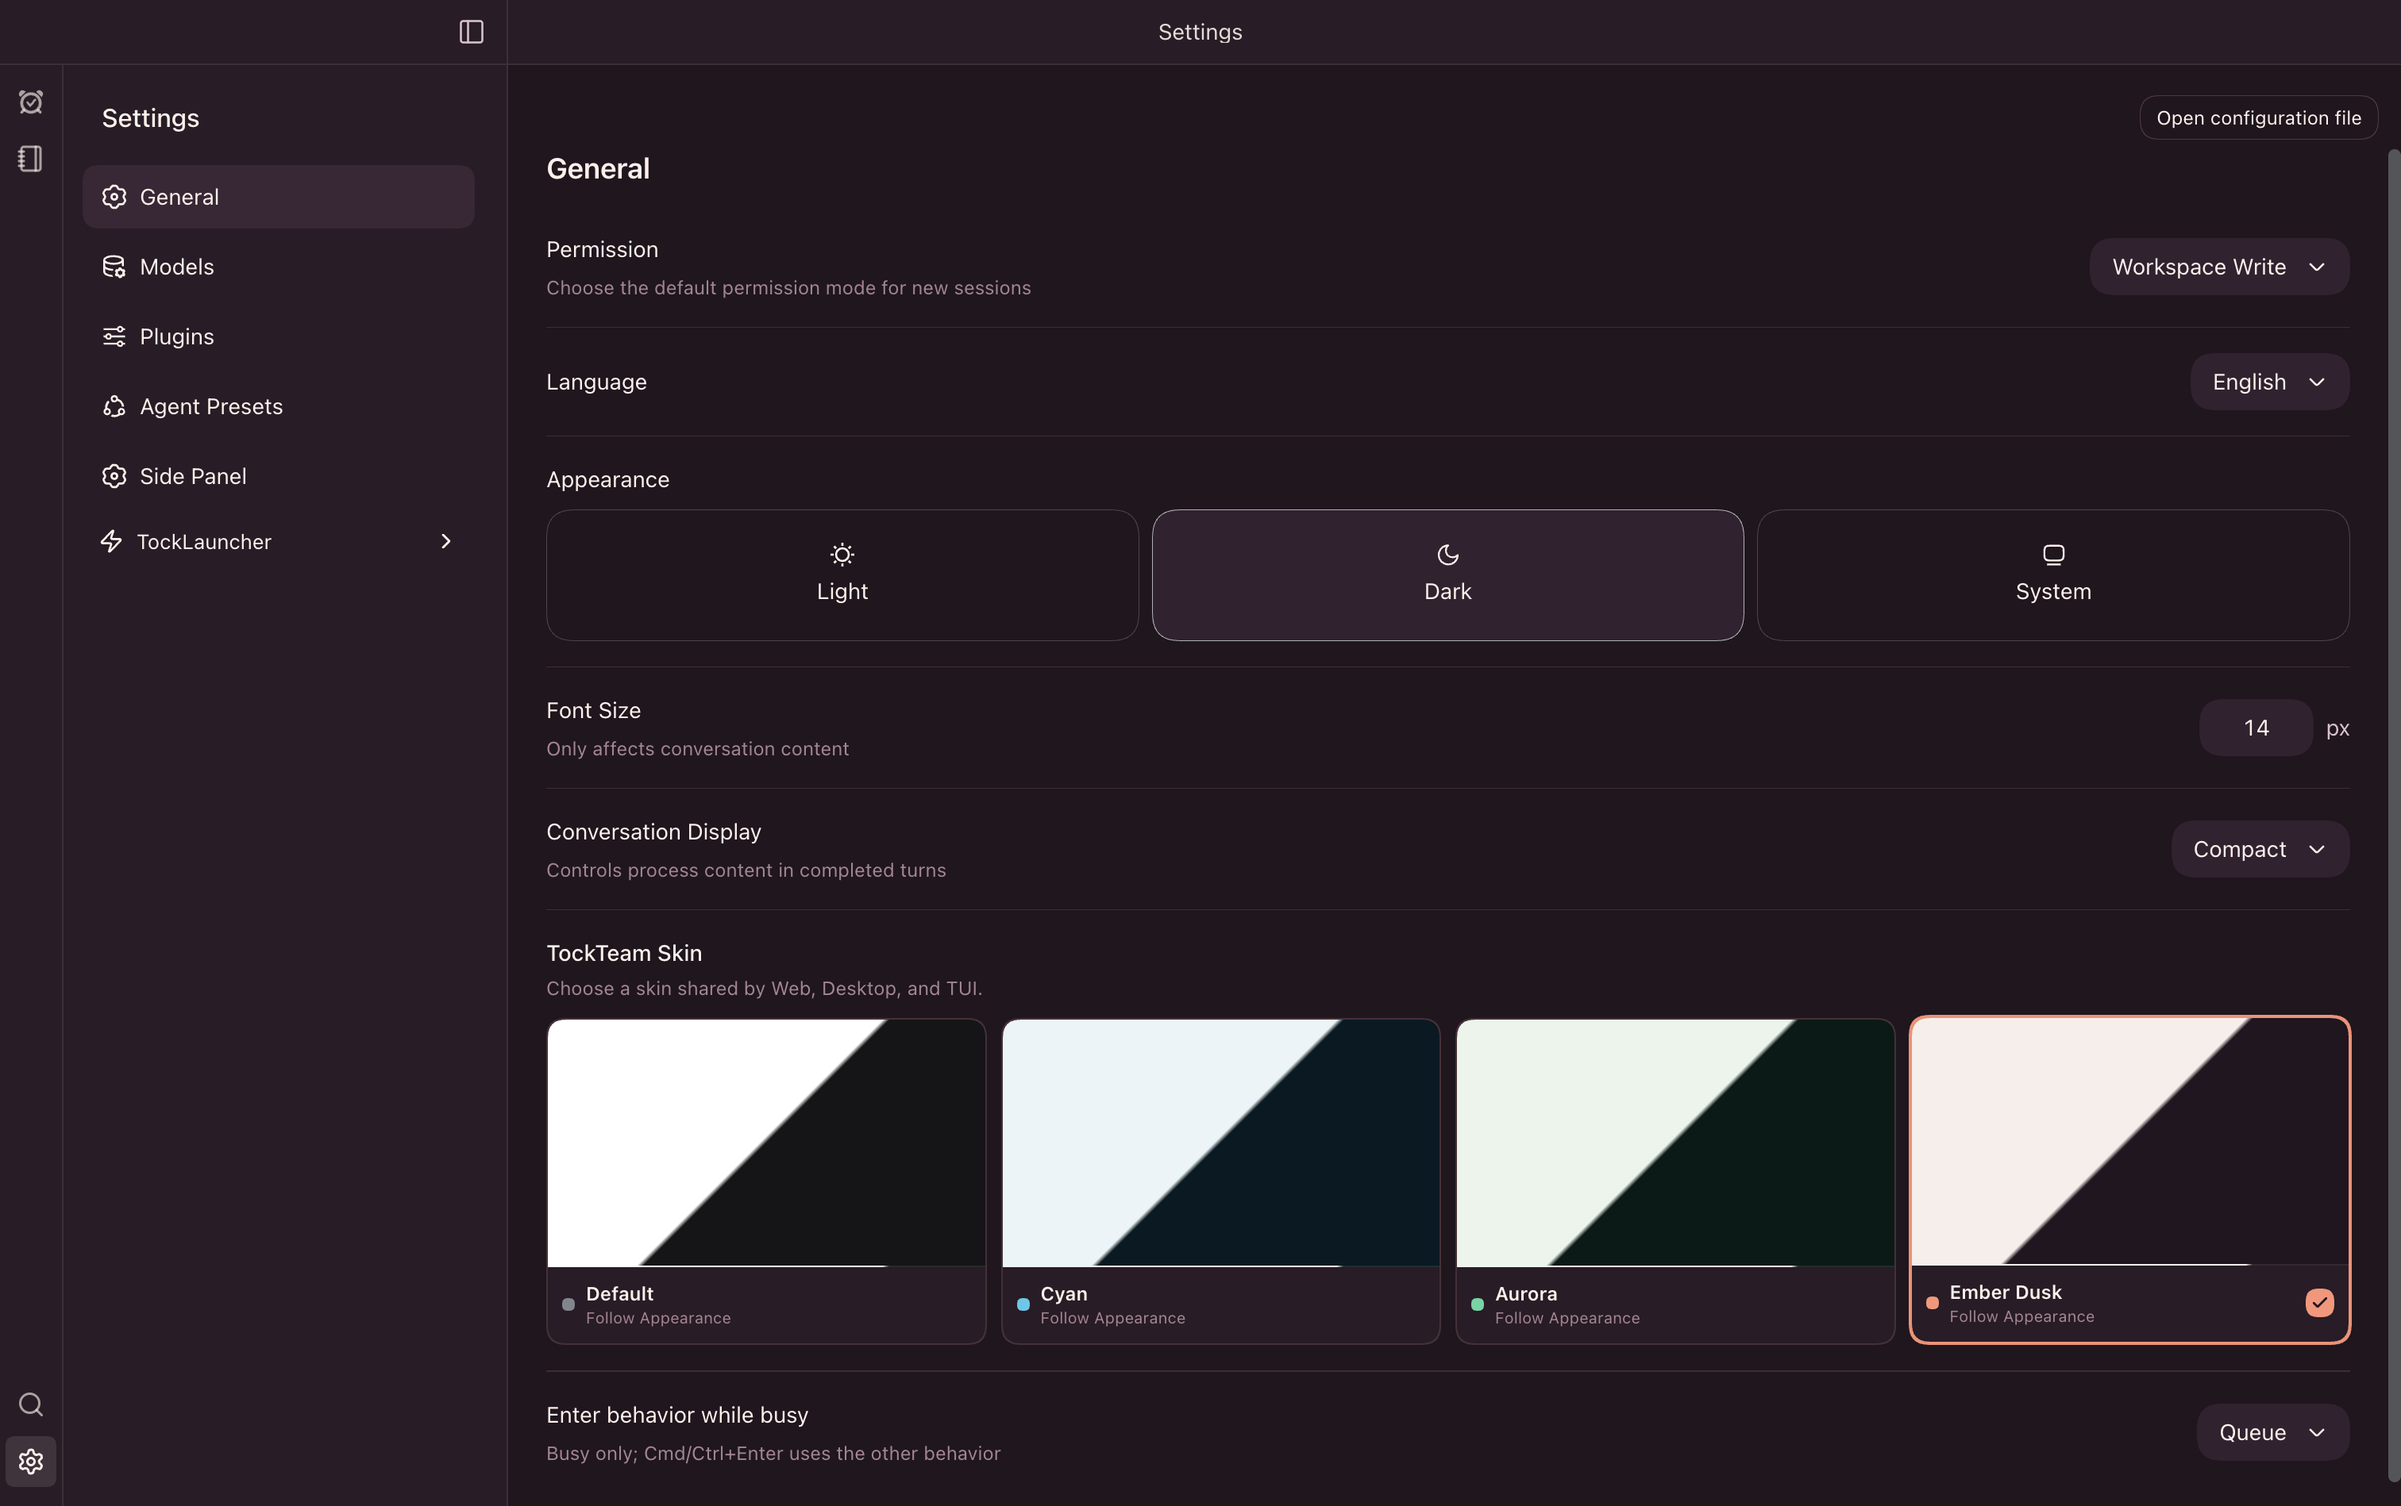
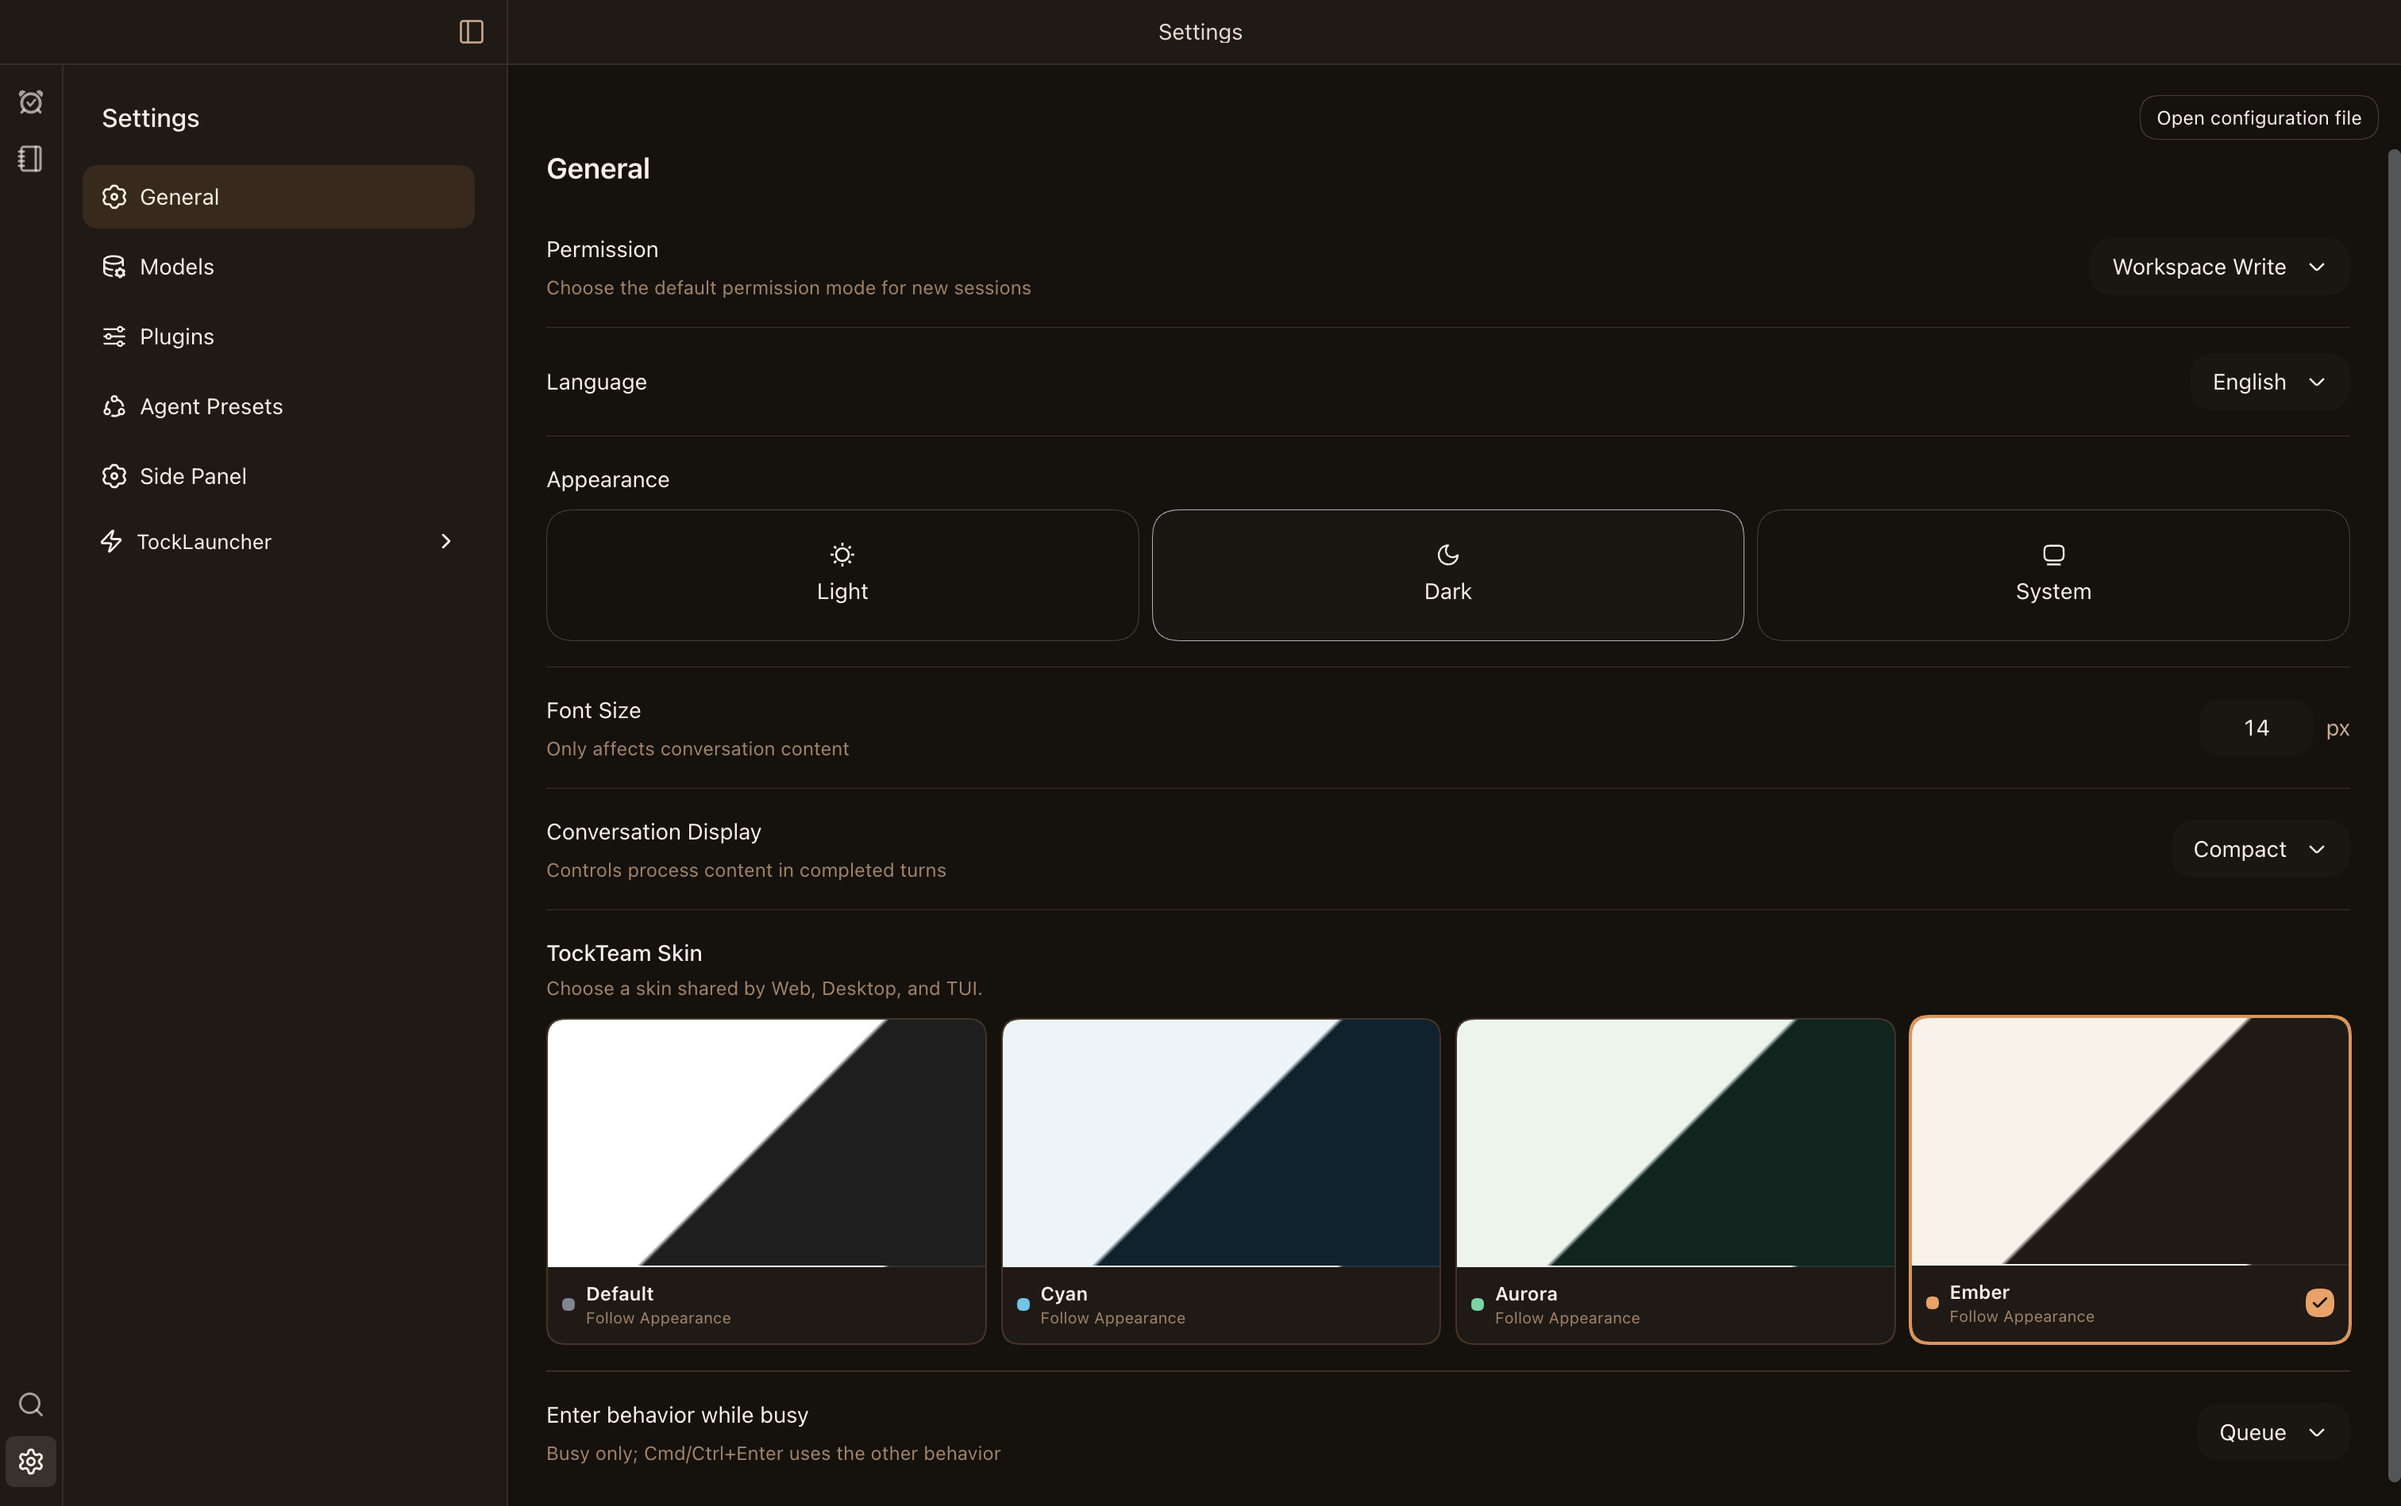
Prove Ember and sidebar-matched skin previews

diff --git a/tests/skins-gallery.test.ts b/tests/skins-gallery.test.ts
@@ -10,7 +10,7 @@ const choices = [
   ['default', 'Default', null],
   ['cyan', 'Cyan', 'tockteam-skin-deep-current'],
   ['aurora', 'Aurora', 'tockteam-skin-jade-circuit'],
-  ['ember-dusk', 'Ember Dusk', 'tockteam-skin-ember-dusk'],
+  ['ember-dusk', 'Ember', 'tockteam-skin-ember-dusk'],
 ] as const
 
 test('shows four skin rows with verified Light-left and Dark-right captures', () => {
@@ -28,19 +28,10 @@ test('shows four skin rows with verified Light-left and Dark-right captures', ()
   assert.equal(proof.cleanup.stopped, true)
   assert.ok(proof.cleanup.rootPid > 0)
   assert.deepEqual(proof.cleanup.remaining, [])
+  assert.equal(proof.galleryCheck.route, '/skins.html')
   assert.equal(proof.galleryCheck.htmlSha256, createHash('sha256').update(html).digest('hex'))
   assert.equal(proof.galleryCheck.imageFilesVerified, 8)
-  const baseline = proof.galleryCheck.unchangedHtmlBrowserBaseline
-  assert.equal(baseline.route, '/skins.html')
-  assert.deepEqual(baseline.desktop, [1512, 949, 2])
-  assert.deepEqual(baseline.mobile, [390, 844, 2])
-  assert.equal(baseline.loadedImages, 8)
-  assert.deepEqual(baseline.runtimeErrors, [])
-  for (const owned of [baseline.browser, baseline.server]) {
-    assert.equal(owned.stopped, true)
-    assert.ok(owned.rootPid > 0)
-    assert.deepEqual(owned.remaining, [])
-  }
+  assert.equal(proof.galleryCheck.browserSessionStarted, false)
   const filenames = choices.flatMap(([id]) => [`${id}-light.png`, `${id}-dark.png`])
   assert.deepEqual(readdirSync(resolve(root, 'screenshots')).sort(), filenames.slice().sort())
   assert.deepEqual(proof.captures.map((capture: { file: string }) => capture.file), filenames)
@@ -68,8 +59,9 @@ test('shows four skin rows with verified Light-left and Dark-right captures', ()
       const skin = TOCKTEAM_SKINS.find(choice => choice.id === skinId)
       assert.equal(capture.preview?.name, label, file)
       assert.equal(capture.preview.light, skin?.palettes.light.tokens['--dsw-alias-bg-base'] ?? '#fff', file)
-      assert.equal(capture.preview.dark, skin?.palettes.dark.tokens['--dsw-alias-bg-base'] ?? '#151517', file)
-      assert.equal(capture.colors.pane, capture.preview[mode], `${file} preview must match the editor pane`)
+      assert.equal(capture.preview.dark, skin?.palettes.dark.tokens['--dsw-specific-sidebar-fill'] ?? '#1e1e1e', file)
+      if (mode === 'light') assert.equal(capture.colors.pane, capture.preview.light, `${file} Light preview must match the editor pane`)
+      else assert.equal(capture.colors.sidebar, capture.preview.dark, `${file} Dark preview must match the sidebar`)
       assert.match(capture.preview.backgroundImage, /^linear-gradient\(135deg, /u, file)
       assert.ok(capture.preview.backgroundImage.includes('49%') && capture.preview.backgroundImage.includes('50%'), file)
       assert.equal(new Set([...capture.preview.backgroundImage.matchAll(/rgb\([^)]+\)/gu)].map(([color]) => color)).size, 2, `${file} must use only two plain colors`)

diff --git a/.agents/uiux/skins/skins.html b/.agents/uiux/skins/skins.html
@@ -58,7 +58,7 @@
       <h1>TockTeam Skins</h1>
       <p class="intro">Four choices, each shown in Light and Dark on the same Desktop Settings screen. Click a screenshot to see it at full resolution. Captures use an isolated profile; no personal settings are shown.</p>
       <div class="standard">1512 × 949 CSS pixels · 2× scale · 3024 × 1898 PNG pixels · Settings → General</div>
-      <nav aria-label="Skin index"><a href="#default">Default</a><a href="#cyan">Cyan</a><a href="#aurora">Aurora</a><a href="#ember-dusk">Ember Dusk</a></nav>
+      <nav aria-label="Skin index"><a href="#default">Default</a><a href="#cyan">Cyan</a><a href="#aurora">Aurora</a><a href="#ember-dusk">Ember</a></nav>
     </div>
   </header>
   <main>
@@ -84,10 +84,10 @@
       </div>
     </section>
     <section class="surface" id="ember-dusk">
-      <p class="number">Skin 04</p><h2>Ember Dusk</h2>
+      <p class="number">Skin 04</p><h2>Ember</h2>
       <div class="comparison">
-        <figure><figcaption>Ember Dusk · Light</figcaption><a class="screenshot-link" href="screenshots/ember-dusk-light.png"><img src="screenshots/ember-dusk-light.png" width="3024" height="1898" loading="lazy" alt="Ember Dusk skin selected in Light appearance on the General Settings screen"></a></figure>
-        <figure><figcaption>Ember Dusk · Dark</figcaption><a class="screenshot-link" href="screenshots/ember-dusk-dark.png"><img src="screenshots/ember-dusk-dark.png" width="3024" height="1898" loading="lazy" alt="Ember Dusk skin selected in Dark appearance on the General Settings screen"></a></figure>
+        <figure><figcaption>Ember · Light</figcaption><a class="screenshot-link" href="screenshots/ember-dusk-light.png"><img src="screenshots/ember-dusk-light.png" width="3024" height="1898" loading="lazy" alt="Ember skin selected in Light appearance on the General Settings screen"></a></figure>
+        <figure><figcaption>Ember · Dark</figcaption><a class="screenshot-link" href="screenshots/ember-dusk-dark.png"><img src="screenshots/ember-dusk-dark.png" width="3024" height="1898" loading="lazy" alt="Ember skin selected in Dark appearance on the General Settings screen"></a></figure>
       </div>
     </section>
     <p class="footer">The app’s Light or Dark choice controls every pair, even when the computer uses the opposite appearance. Default uses the built-in colors; named skins keep their selected family. See the <a href="proof.json">capture proof</a>.</p>
